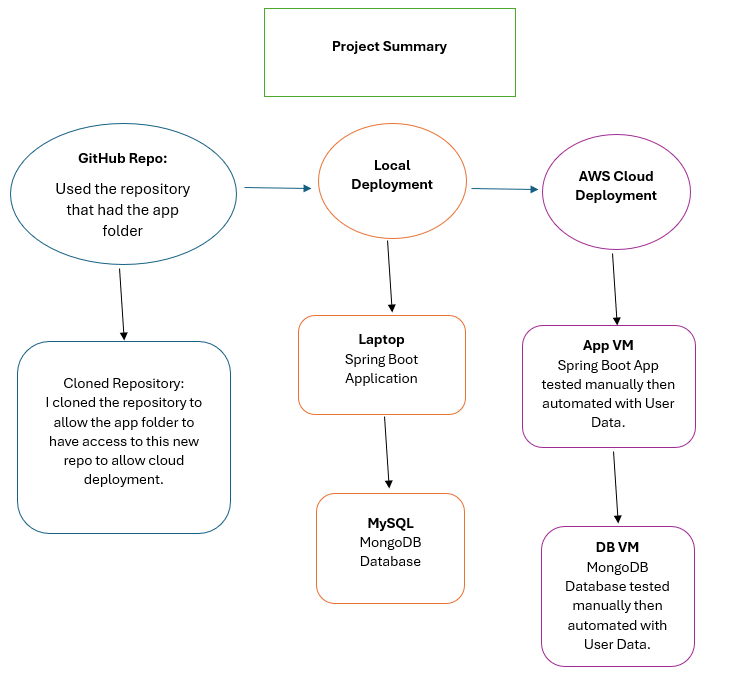
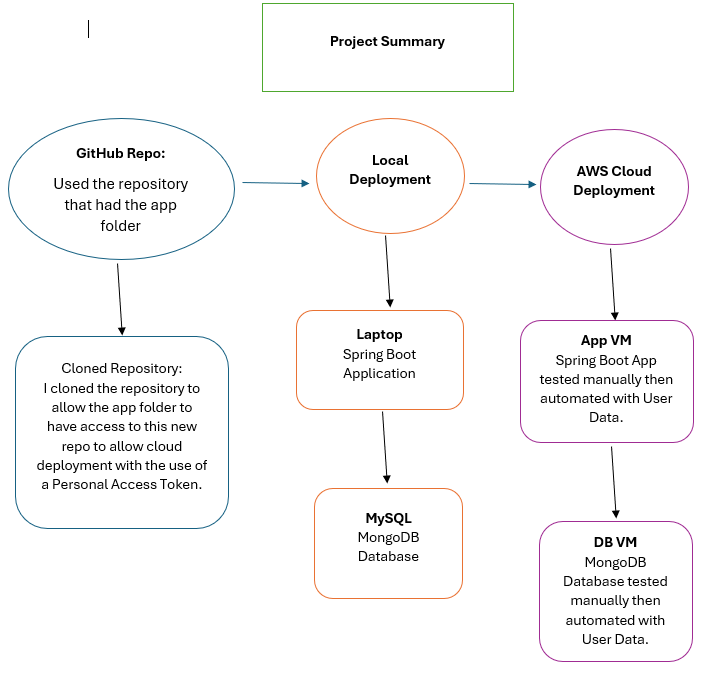
correct picture added

diff --git a/README.md b/README.md
@@ -15,12 +15,11 @@
 ## Java Springboot app Notes
 
 ### Project Architecture
-
 ![project-architecture](images/project-architecture.png)
 
 This shows the overall project architecture and the steps I have take to get the app deployed using the cloud with applications and platforms such as Kubernetes and Docker. 
 
-It begins with a GitHub repository containing the application folder. That repository is then cloned into a new repo to ensure that the application folder is accessible for later cloud deployment steps. From there, the workflow proceeds to Local Deployment, where the Spring Boot application runs on a laptop and connects to a local MySQL/MongoDB database for initial testing. Once the application is verified locally, the process moves to AWS Cloud Deployment, where two virtual machines (VMs) are used: one for running the Spring Boot application (App VM) and another for the database (DB VM). Both VMs are tested manually at first and then automated using User Data scripts, enabling consistent, repeatable deployment in the cloud.
+It begins with a GitHub repository containing the application folder. That repository is then cloned into a new repo through a PAT (Personal Access Token) to ensure that the application folder is accessible for later cloud deployment steps. From there, the workflow proceeds to Local Deployment, where the Spring Boot application runs on a laptop and connects to a local MySQL/MongoDB database for initial testing. Once the application is verified locally, the process moves to AWS Cloud Deployment, where two virtual machines (VMs) are used: one for running the Spring Boot application (App VM) and another for the database (DB VM). Both VMs are tested manually at first and then automated using User Data scripts, enabling consistent, repeatable deployment in the cloud.
 
 ## Step 1: Create a Git repo
 * Create a Git repo and clone it into Git bash.
